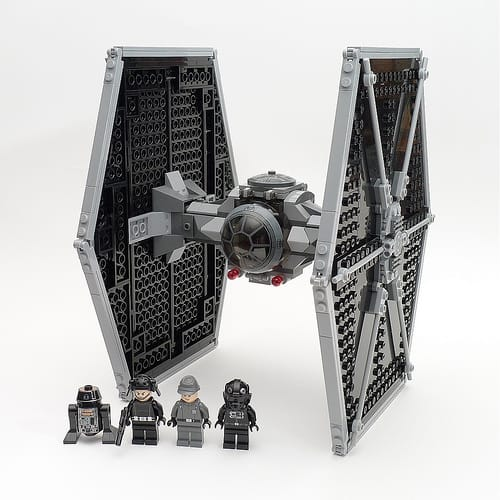
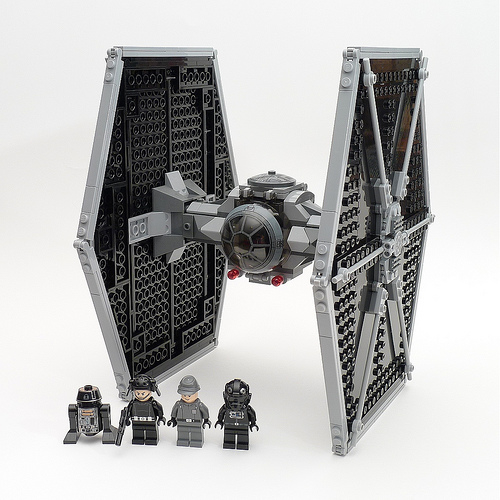
Fixed image scaling!

diff --git a/stage1/gruntfile.js b/stage1/gruntfile.js
@@ -84,23 +84,25 @@ module.exports = function(grunt) {
 			}
 		},
 		responsive_images: {
-	    images: {
-	      options: {
+		  images: {
+		    options: {
 					engine: 'im',
-	        sizes: [
+		      sizes: [
 						{
-	          name: 'medium',
-	          width: 300
-	        },{
-	          name: 'large',
-	          width: 500,
-	        }]
-	      },
+		        name: 'medium',
+		        width: 300,
+						quality: 90,
+						upscale: false
+		      },{
+		        name: 'large',
+		        width: 500,
+		      }]
+		    },
 				files: {
-        'images/tie-fighter.jpg': '../before/images/tie-fighter-large.jpg'
-      	}
-	    }
-	  },
+		    'images/tie-fighter.jpg': '../before/images/tie-fighter-large.jpg'
+		  	}
+		  }
+		},
 		pagespeed: {
 			options: {
 				nokey: true,
@@ -123,5 +125,5 @@ grunt.loadNpmTasks('grunt-responsive-images');
 grunt.loadNpmTasks('grunt-pagespeed');
 
 grunt.registerTask('test', ['pagespeed']);
-grunt.registerTask('default', ['imagemin','webp:jpeg', 'webp:png', 'responsive_images']);
+grunt.registerTask('default', ['responsive_images']);
 };
